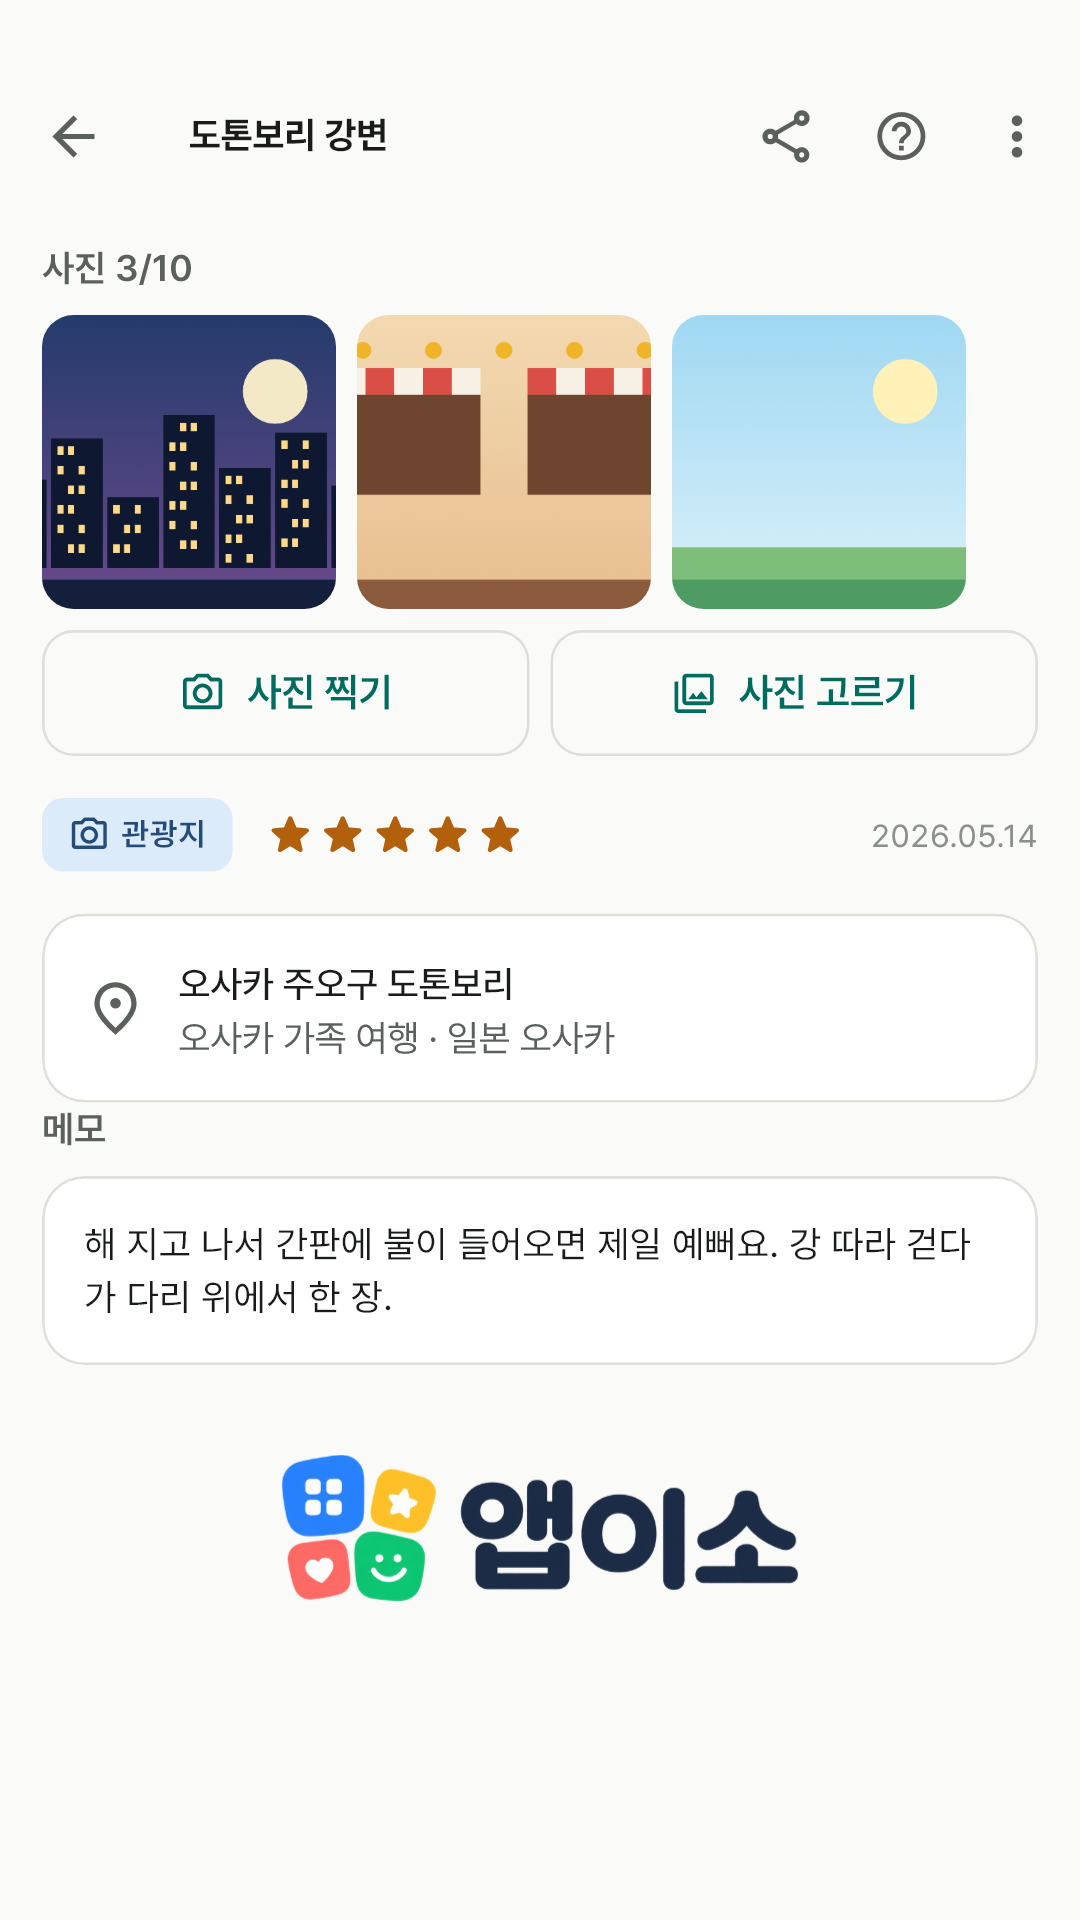
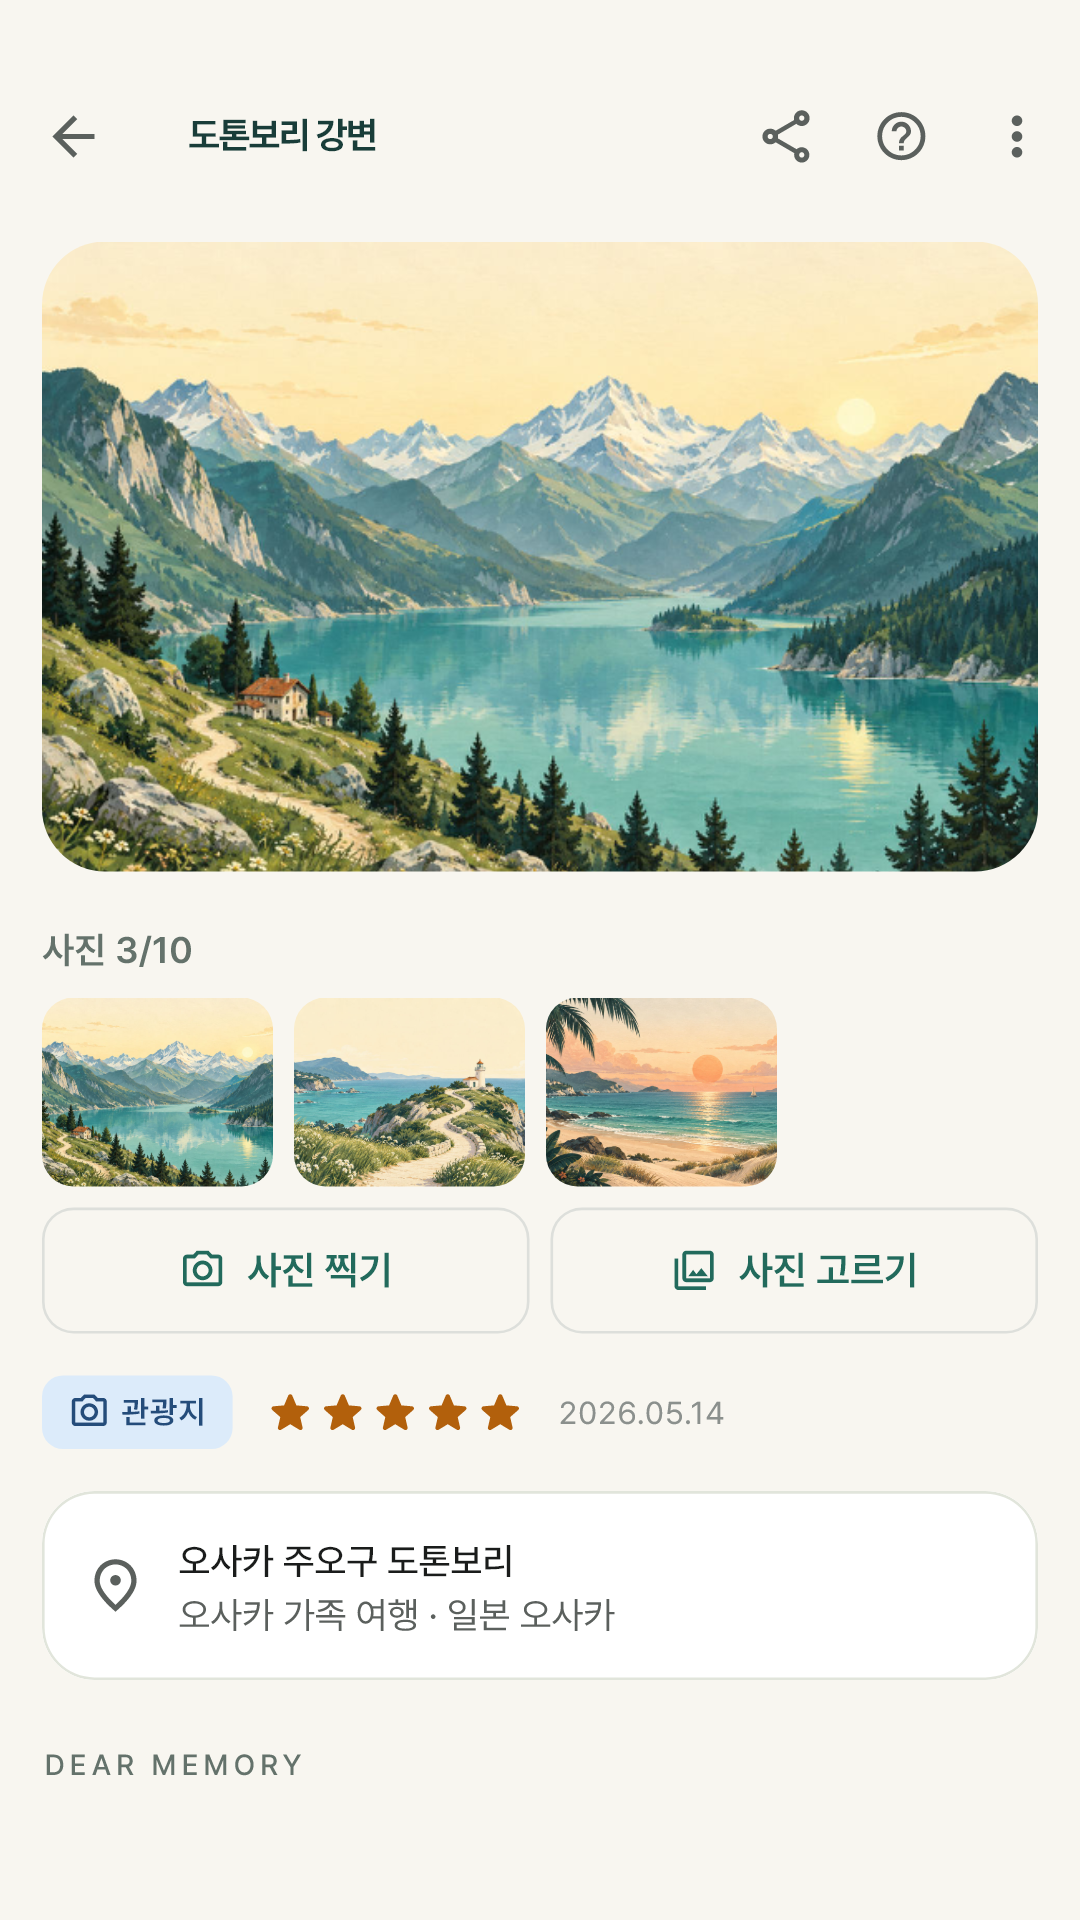
docs: 여행 기록 개편 화면과 사진 공유 안내 갱신

diff --git a/travel_log/index.html b/travel_log/index.html
@@ -10,7 +10,7 @@
   body {
     margin: 0 auto; padding: 40px 20px 64px; max-width: 720px;
     font-family: -apple-system, BlinkMacSystemFont, "Apple SD Gothic Neo", "Malgun Gothic", sans-serif;
-    line-height: 1.75; color: #1b1b1f; background: #fff; word-break: keep-all;
+    line-height: 1.75; color: #193d39; background: #f8f6f0; word-break: keep-all;
   }
   header { text-align: center; margin-bottom: 40px; }
   header img { width: 96px; height: 96px; border-radius: 22px; }
@@ -50,7 +50,7 @@
        아이콘을 바꾸면 icon-copies.js flatten을 다시 돌려 이 파일도 갱신한다. -->
   <img src="./icon-512.png" alt="앱이소 여행 기록 아이콘" onerror="this.style.display='none'">
   <h1>앱이소 여행 기록</h1>
-  <p class="tagline">여행 하나를 통째로 담아 두는 기록장</p>
+  <p class="tagline">여행이 쌓여, 이야기가 되는 나만의 앨범</p>
 </header>
 
 <!-- 스토어에 공개되면: 아래 <span class="store-badge">…</span> 줄과 .store-note 문단을 지우고,
@@ -73,12 +73,12 @@
 <h2>이런 걸 할 수 있어요</h2>
 <ul>
   <li><strong>여행이 하나의 단위예요</strong> — 홈에 여행 카드가 쌓입니다. 여행지·기간과 함께
-    예정 · 여행 중 · 다녀옴 상태가 붙고, 대표 사진과 기록 수·일정 수·쓴 돈이 같이 보여요.
+    예정 · 여행 중 · 다녀옴 상태가 붙고, 대표 사진과 기록 수·일정 수가 같이 보여요.
     기간을 아직 안 정했으면 비워 둬도 됩니다.</li>
   <li><strong>기록</strong> — 맛집·카페·관광지·숙소·쇼핑·체험 중에서 종류를 고르고 이름만 적으면
     끝이에요. 주소·들른 날·별점·메모는 아는 만큼만. 목록 위 칩을 누르면 "맛집만", "숙소만"
     걸러 볼 수 있습니다.</li>
-  <li><strong>사진은 기록당 10장까지</strong> — 바로 찍거나 여러 장을 한 번에 골라 담아요.
+  <li><strong>사진은 기록당 10장까지</strong> — 기록을 작성하면서 바로 찍거나 여러 장을 한 번에 골라 담아요.
     앱이 쓰는 건 사본이라 갤러리 원본은 손대지 않고, 사본에서는 촬영 위치 같은 정보를 떼어 냅니다.
     전체 사진 라이브러리 권한을 요청하지 않고 고른 사진만 받아요.</li>
   <li><strong>일정</strong> — 날짜·시각·할 일을 적으면 날짜별로 묶여 "05.14 (목) · 1일차"처럼
@@ -87,12 +87,16 @@
   <li><strong>예산</strong> — 여행마다 통화를 하나 고르고(원·엔·달러 등 13가지) 그 단위 그대로
     적어요. 환산하지 않으니 인터넷이 필요 없습니다. 예산 대비 실제 지출을 막대로 보여주고,
     분류별·날짜별 합계가 따라옵니다.</li>
-  <li><strong>공유</strong> — 여행 전체로, 또는 "맛집만" 골라 보냅니다. 글로 보내면 카톡·문자 등
-    아무 앱으로 가고(금액은 빠져요), 앱 파일로 보내면 사진까지 담아 갑니다. 받는 쪽에서
+  <li><strong>공유</strong> — 여행 전체로, 또는 "맛집만" 골라 글과 사진을 함께 보냅니다.
+    일반 공유는 금액을 빼고, 앱 파일로 보내면 사진과 기록을 함께 담아 갑니다. 받는 쪽에서
     파일을 누르면 앱이 열려요.</li>
   <li><strong>백업과 복원</strong> — 모든 여행과 사진을 담은 파일 하나를 만들어 드라이브·메일에
     보내 두고, 새 폰에서 그대로 되돌립니다.</li>
 </ul>
+
+<div class="box"><strong>사진이 없어도 예쁜 여행 앨범</strong><br>
+바다·산·도시·숲·노을 다섯 가지 그림 표지를 골라요. 추억 탭에서는 모든 여행의 사진과 이야기를
+함께 보고, 여행 수첩에는 여행지와 여행한 날이 차곡차곡 쌓여요. 검색과 상태 필터로 다시 찾기도 쉬워요.</div>
 
 <h2>앱 안에서는 이렇게 보여요</h2>
 <!-- 스크린샷은 store/screenshots/의 사본이다. 화면이 바뀌면 골든 테스트로 다시 만들어
@@ -104,8 +108,12 @@
 <figure><img src="shots/03-place.png" alt="사진 줄과 별점·주소·메모가 있는 기록 상세 화면" loading="lazy"><figcaption>사진과 함께 남기는 한마디.</figcaption></figure>
 <figure><img src="shots/04-schedule.png" alt="날짜별로 묶인 일정과 예상 금액에서 실제 금액으로 이어지는 줄" loading="lazy"><figcaption>며칠째에 무엇을 하고 얼마를.</figcaption></figure>
 <figure><img src="shots/05-budget.png" alt="예산 대비 지출과 분류별·날짜별 합계" loading="lazy"><figcaption>계획한 돈과 실제로 쓴 돈.</figcaption></figure>
-<figure><img src="shots/06-share.png" alt="여행 전체 또는 종류를 골라 글이나 앱 파일로 보내는 공유 시트" loading="lazy"><figcaption>통째로, 또는 골라서 친구에게.</figcaption></figure>
+<figure><img src="shots/06-share.png" alt="여행 전체 또는 종류를 골라 글과 사진이나 앱 파일로 보내는 공유 시트" loading="lazy"><figcaption>사진도 함께 친구에게.</figcaption></figure>
 <figure><img src="shots/07-home-dark.png" alt="어두운 화면의 여행 목록" loading="lazy"><figcaption>어두운 화면도 됩니다.</figcaption></figure>
+</section>
+<section class="shots">
+<figure><img src="shots/08-memories.png" alt="여행의 사진과 이야기를 모아 보는 추억 탭" loading="lazy"><figcaption>오래 기억하고 싶은 순간들.</figcaption></figure>
+<figure><img src="shots/09-passport.png" alt="여행지와 여행한 날을 정리한 여행 수첩" loading="lazy"><figcaption>차곡차곡 쌓인 나만의 발자국.</figcaption></figure>
 </section>
 <p>화면에 보이는 여행·가게 이름과 금액은 기능을 설명하기 위한 예시이고, 사진 자리에 있는 것은
 그림입니다.</p>

diff --git a/travel_log/privacy.html b/travel_log/privacy.html
@@ -4,8 +4,8 @@
 <h1>앱이소 여행 기록 개인정보처리방침</h1><p>시행일: 2026년 9월 18일</p>
 <h2>1. 기기에 저장하는 정보</h2><p>사용자가 입력한 여행 이름, 여행지, 기간, 통화, 예산, 메모와 여행 안의 기록(장소 종류·이름·주소·메모·별점·방문일·사진), 일정(날짜·시각·제목·메모·분류·예상 금액·실제 금액), 화면 설정을 앱 전용 저장소에 보관합니다. 개발자 서버가 없으며 입력한 내용을 개발자에게 전송하지 않습니다. 가입, 광고, 결제, 분석·크래시 수집 SDK를 사용하지 않습니다.</p>
 <h2>2. 인터넷 사용</h2><p>이 앱은 네트워크 권한을 요청하지 않으며 인터넷을 사용하지 않습니다. 모든 기능은 인터넷 없이 동작합니다. 개인정보처리방침·앱이소 소개 페이지·문의 메일은 사용자가 누를 때 브라우저 또는 메일 앱에 넘겨 엽니다.</p>
-<h2>3. 사진</h2><p>사용자가 시스템 카메라로 촬영하거나 시스템 사진 선택기로 고른 사진만 기록당 최대 10장 보관합니다. 갤러리 원본을 변경하거나 삭제하지 않으며, 전체 사진 라이브러리를 읽는 권한을 요청하지 않습니다. 저장하는 사본에서는 촬영 위치·기기 정보 같은 메타데이터를 제거합니다.</p>
-<h2>4. 공유</h2><p>공유는 사용자가 공유 버튼을 눌렀을 때만 일어나며, 사용자가 고른 여행 전체 또는 종류별 기록을 텍스트나 앱 파일로 만들어 사용자가 선택한 앱(메신저, 메일 등)에 넘깁니다. 공유 내용에 사용자의 현재 위치나 기기 정보는 담지 않습니다. 다른 사람이 보낸 앱 파일은 사용자가 확인한 뒤에만 기기 안에 추가합니다.</p>
+<h2>3. 사진</h2><p>사용자가 시스템 카메라로 촬영하거나 시스템 사진 선택기로 고른 사진만 기록당 최대 10장 보관합니다. 갤러리 원본을 변경하거나 삭제하지 않으며, 전체 사진 라이브러리를 읽는 권한을 요청하지 않습니다. 저장하는 사본에서는 촬영 위치·기기 정보 같은 메타데이터를 제거합니다. 작성 중 사진 선택기로 이동할 때는 앱 종료에 대비해 글과 첨부 사진을 임시 보관하며, 복귀 후 임시 파일을 삭제합니다. 사용자가 기록을 저장하기 전에는 기존 기록에 반영하지 않습니다.</p>
+<h2>4. 공유</h2><p>공유는 사용자가 공유 버튼을 눌렀을 때만 일어나며, 사용자가 고른 여행 전체 또는 종류별 기록을 텍스트와 사진, 또는 사진을 담은 앱 파일로 만들어 사용자가 선택한 앱(메신저, 메일 등)에 넘깁니다. 공유 내용에 사용자의 현재 위치나 기기 정보는 담지 않습니다. 다른 사람이 보낸 앱 파일은 사용자가 확인한 뒤에만 기기 안에 추가합니다.</p>
 <h2>5. 백업과 삭제</h2><p>여행 기록은 사용자 본인의 구글 계정 자동 백업에 포함될 수 있으며, 사진은 자동 클라우드 백업에서 제외됩니다. Android 기기 간 직접 이전에는 사진도 포함될 수 있습니다. 사진까지 옮기려면 앱 안의 백업 파일 내보내기·복원을 사용하며, 백업 파일은 사용자가 고른 곳에만 저장되고 개발자에게 전송되지 않습니다. 여행을 지우면 안에 든 기록·일정·사진 사본도 삭제합니다. 앱을 제거하거나 데이터를 삭제하면 기록과 사진도 사라질 수 있습니다.</p>
 <h2>6. 외부 링크와 앱</h2><p>소개 페이지·온라인 개인정보처리방침·문의 메일은 브라우저 또는 메일 앱을 사용자가 누를 때 엽니다. 외부 서비스에는 해당 서비스의 정책이 적용됩니다.</p>
 <h2>7. 문의</h2><p><a href="mailto:appisoLabs@gmail.com">appisoLabs@gmail.com</a></p></body></html>
